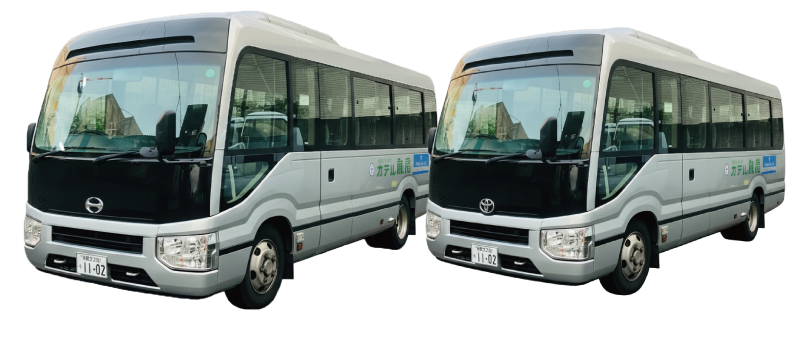
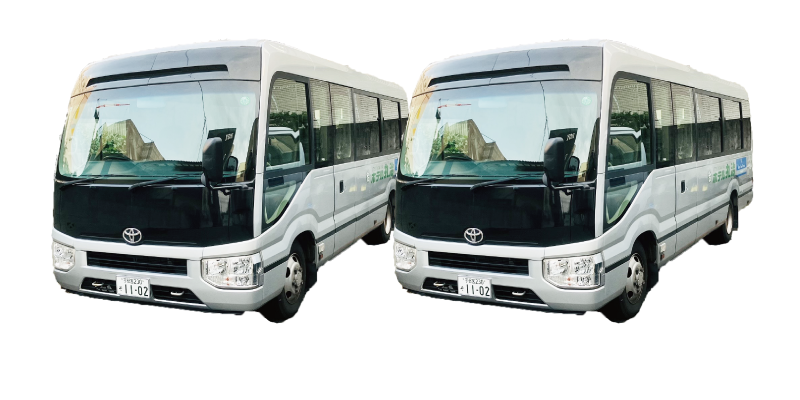
Update microbus image on top page

diff --git a/index.html b/index.html
@@ -1,4 +1,4 @@
-<!DOCTYPE html>
+<!DOCTYPE html>
 <html lang="ja">
 <head>
   <meta charset="UTF-8">
@@ -180,7 +180,7 @@
             <div>
               <i class="fas fa-bus"></i> マイクロバス送迎：送迎バス（28名様乗り）2台ございます。
               <div class="info-bus-figure">
-                <img src="images/legacy_microbus.png" alt="マイクロバス送迎" loading="lazy">
+                <img src="images/legacy_microbus.png?v=2" alt="マイクロバス送迎" loading="lazy">
               </div>
             </div>
           </li>
@@ -332,6 +332,7 @@
 
 </body>
 </html>
+
 
 
 
